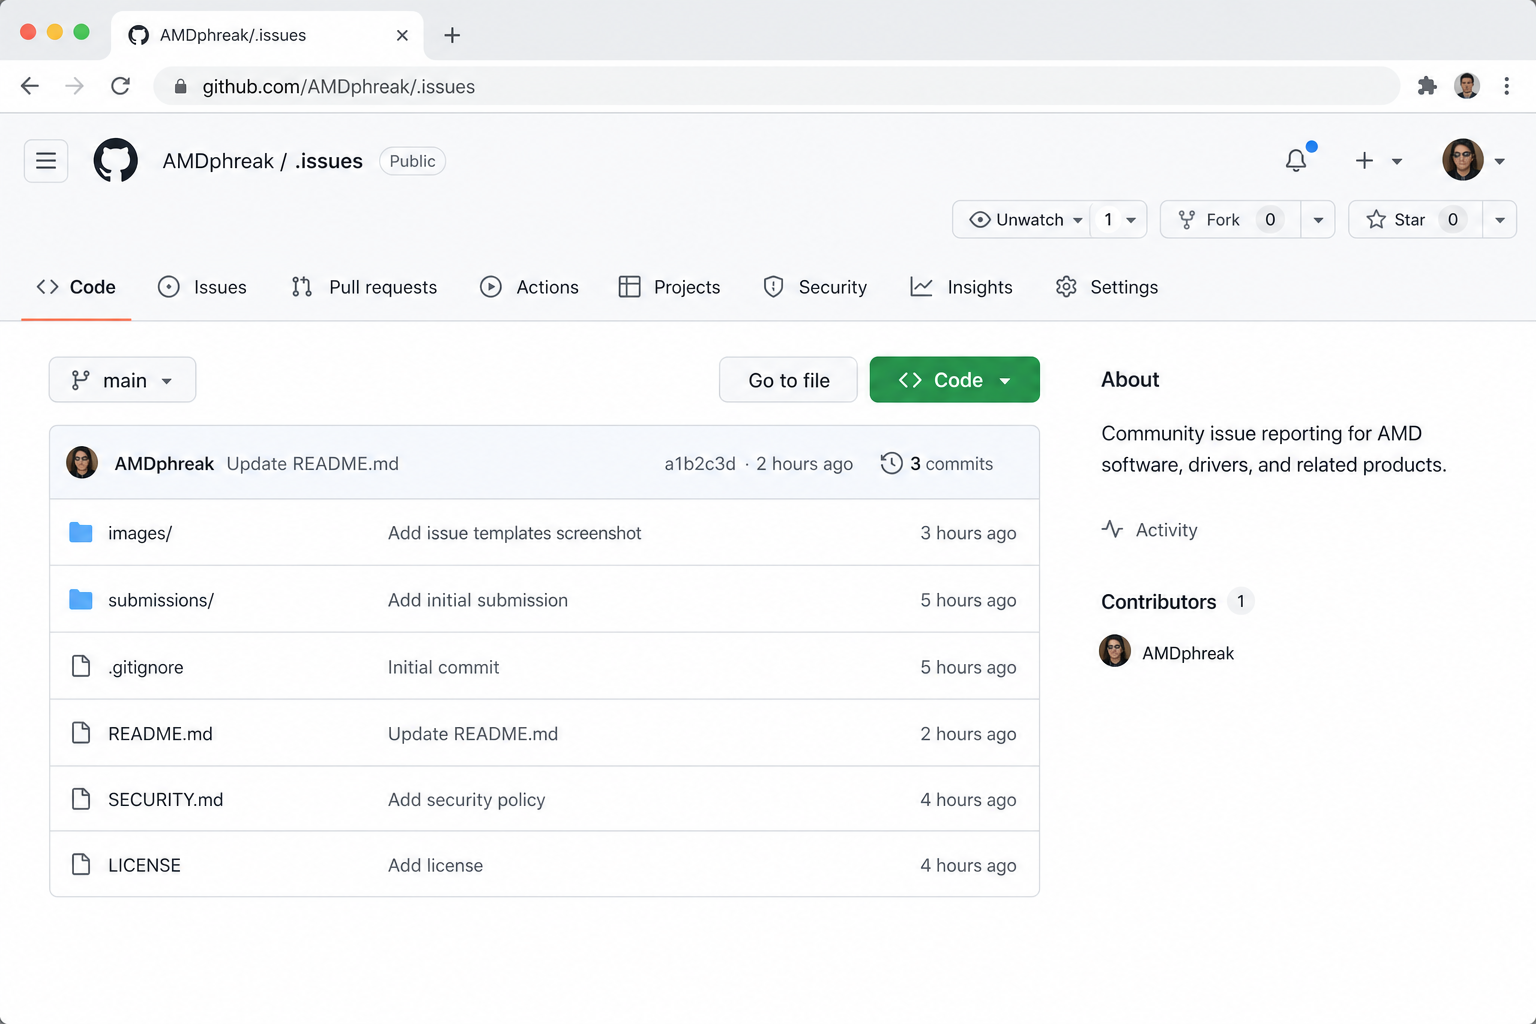
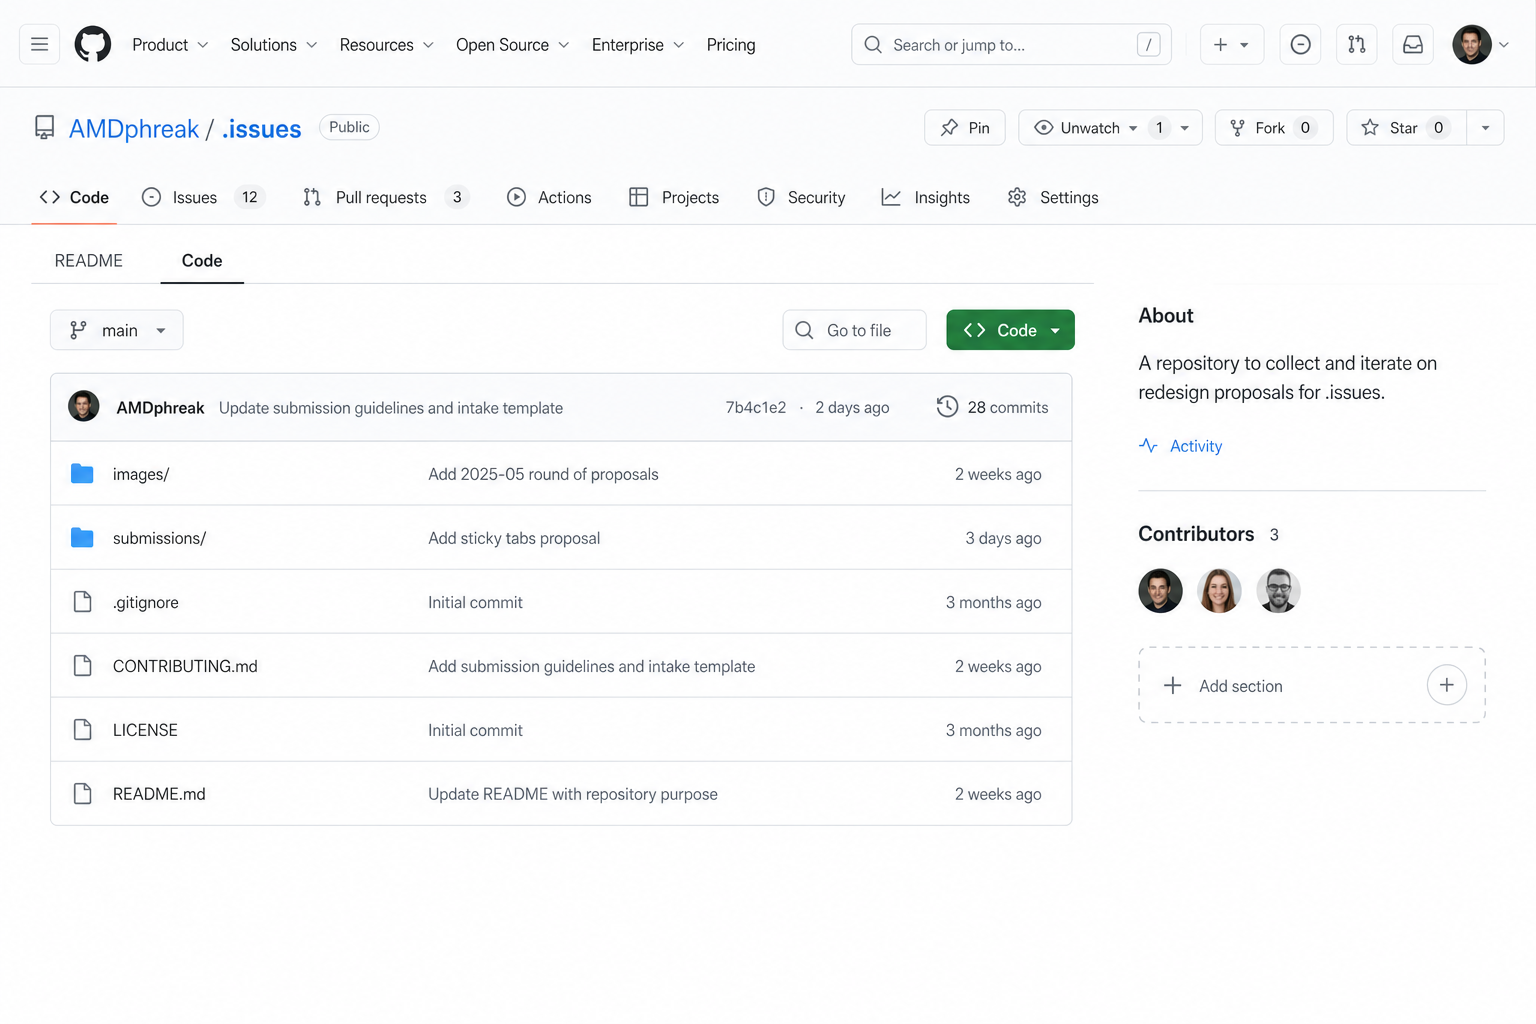
Refine visitor-first mockups: crop sidebar hover, accumulate Code-tab changes, reword captions.

diff --git a/submissions/github-repo-page-visitor-first/gh-discussion-body.md b/submissions/github-repo-page-visitor-first/gh-discussion-body.md
@@ -32,21 +32,23 @@ Sticky tabs under the repo nav keep switching cheap without burying meaning unde
 
 ### Mockups (proof of concept)
 
-**Current** (empty Releases/Packages + files-first chrome):
+Each step builds on the previous.
+
+**1. Current** — empty Releases/Packages + files-first chrome:
 
 ![Current GitHub repo page showing empty Releases and Packages](https://raw.githubusercontent.com/AMDphreak/.issues/main/images/github-repo-page-visitor-first/current-github-repo-page.png)
 
-**Proposed** — README first; empty Releases/Packages gone; owner `+` affordance:
+**2. Proposed** — README first; empty Releases/Packages gone; owner `+` / Add section affordance:
 
 ![README-first layout with minimal sidebar](https://raw.githubusercontent.com/AMDphreak/.issues/main/images/github-repo-page-visitor-first/poc-readme-first-minimal-sidebar.png)
 
-**Proposed** — hover `+` → addable sections with brief descriptions:
+**3. Same layout as (2)** — hovering `+` → click to add sections with brief descriptions:
 
-![Sidebar hover add-section menu](https://raw.githubusercontent.com/AMDphreak/.issues/main/images/github-repo-page-visitor-first/poc-sidebar-hover-add-sections.png)
+![Sidebar hover add-section menu cropped](https://raw.githubusercontent.com/AMDphreak/.issues/main/images/github-repo-page-visitor-first/poc-sidebar-hover-add-sections.png)
 
-**Proposed** — Code tab for the file tree:
+**4. Same layout as (2)–(3)** — Code tab selected (file tree); minimal sidebar + Add section retained:
 
-![Code tab showing file browser](https://raw.githubusercontent.com/AMDphreak/.issues/main/images/github-repo-page-visitor-first/poc-code-tab-files.png)
+![Code tab showing file browser with minimal sidebar](https://raw.githubusercontent.com/AMDphreak/.issues/main/images/github-repo-page-visitor-first/poc-code-tab-files.png)
 
 ### Non-goals
 

diff --git a/submissions/github-repo-page-visitor-first/issue.md b/submissions/github-repo-page-visitor-first/issue.md
@@ -36,19 +36,21 @@ Sticky tabs that pin under the repo nav when switching views would keep navigati
 
 ## Mockups (PoC)
 
-Current (owner-oriented empty chrome + files first):
+Each step builds on the previous.
+
+**1. Current** — empty Releases/Packages + files-first chrome:
 
 ![Current GitHub repo page](screenshots/current-github-repo-page.png)
 
-Proposed — README first, empty Releases/Packages gone, owner `+` affordance:
+**2. Proposed** — README first; empty Releases/Packages gone; owner `+` / Add section affordance:
 
 ![README-first minimal sidebar](screenshots/poc-readme-first-minimal-sidebar.png)
 
-Proposed — hover `+` → addable sections with brief descriptions:
+**3. Same layout as (2)** — hovering `+` → click to add sections with brief descriptions:
 
 ![Sidebar hover add sections](screenshots/poc-sidebar-hover-add-sections.png)
 
-Proposed — Code tab for the file tree:
+**4. Same layout as (2)–(3)** — Code tab selected (file tree); minimal sidebar + Add section retained:
 
 ![Code tab files](screenshots/poc-code-tab-files.png)
 
